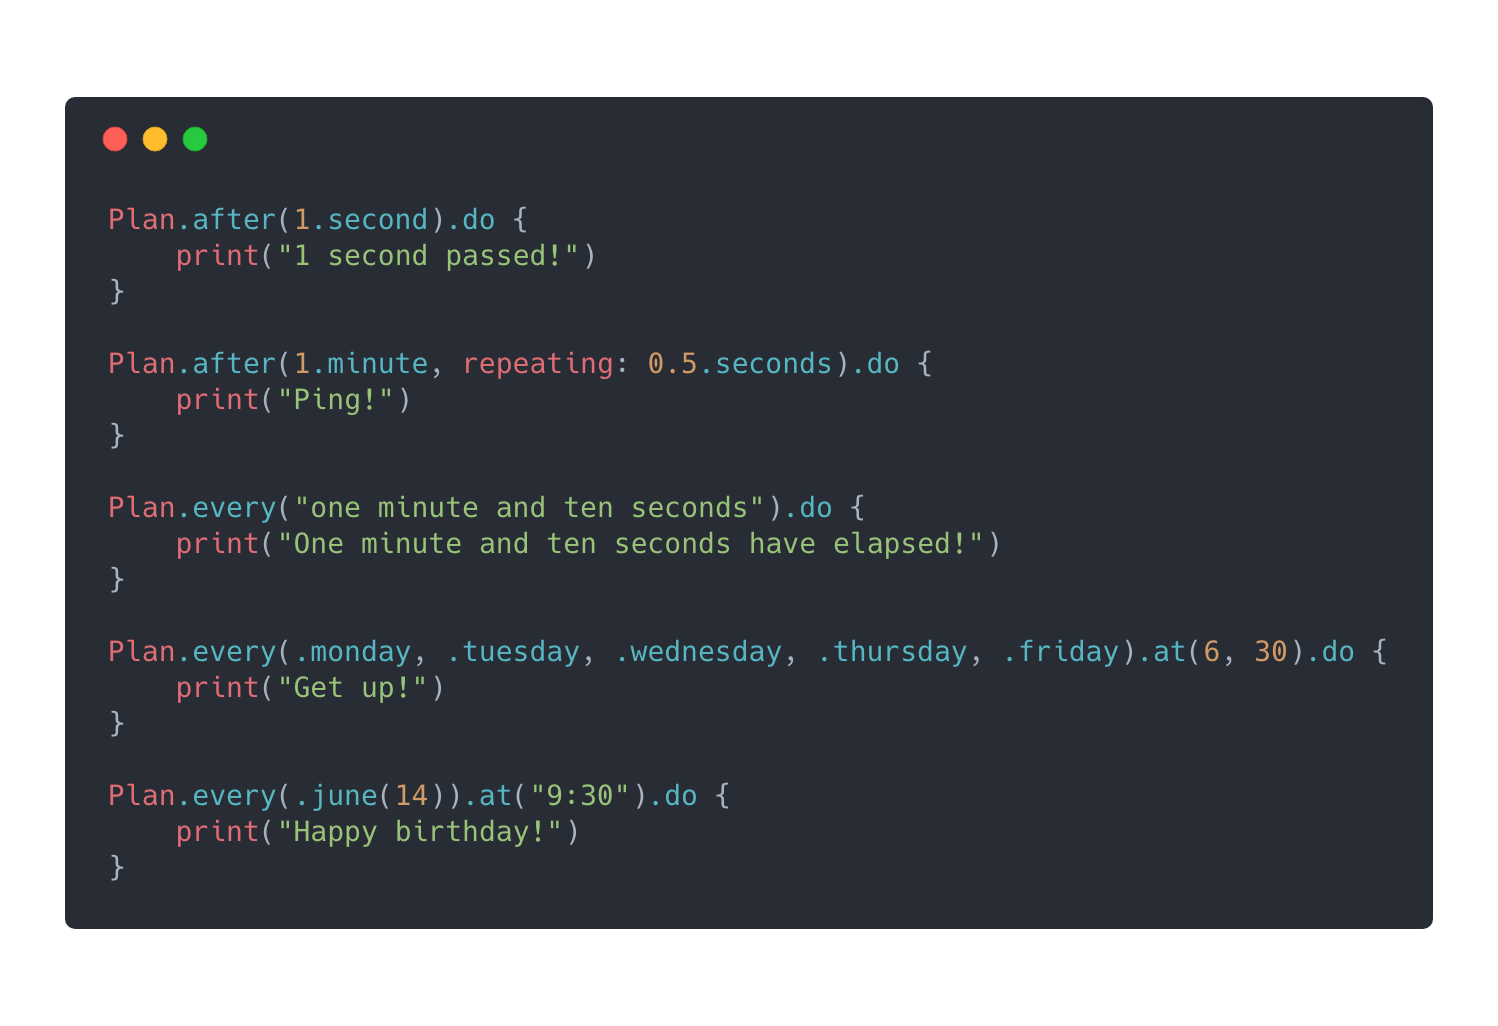
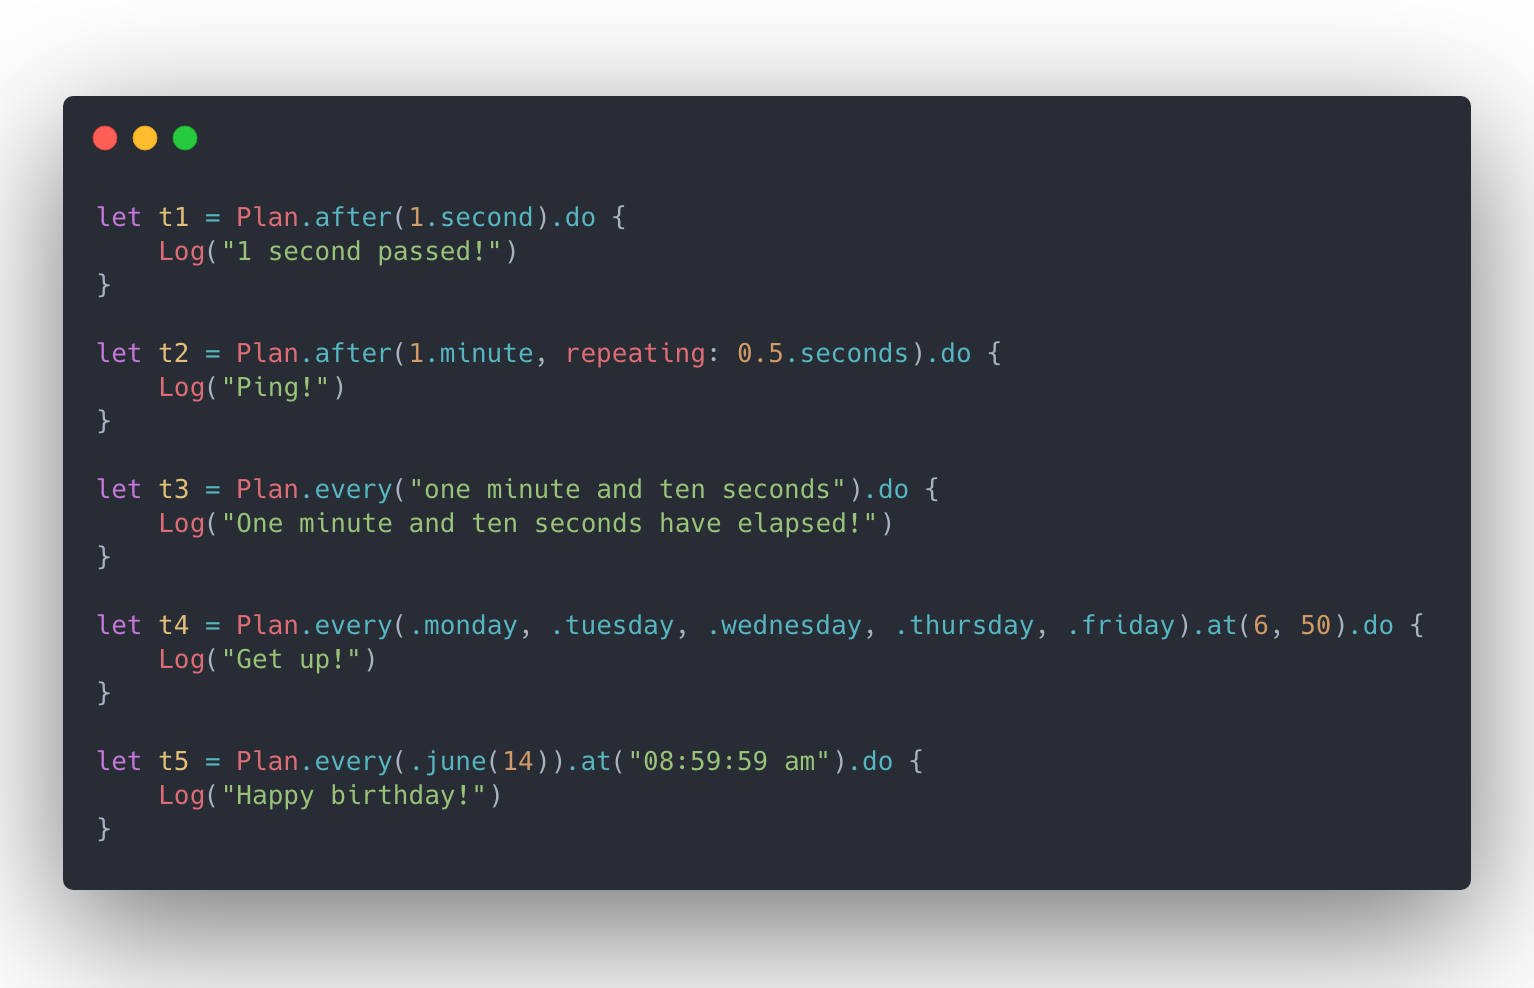
Update README.md

Changed region(s): [[0.0, 0.0607, 1.0, 1.0]]

diff --git a/Sources/Schedule/Task.swift b/Sources/Schedule/Task.swift
@@ -49,7 +49,7 @@ open class Task {
     open internal(set) weak var taskCenter: TaskCenter?
 
     /// The mutex used to guard task center operations.
-    let taskCenterMutex = NSLock()
+    let taskCenterMutex = NSRecursiveLock()
 
 
     /// Initializes a normal task with specified plan and dispatch queue.

diff --git a/README.md b/README.md
@@ -14,7 +14,7 @@
 Schedule is a lightweight timed tasks scheduler for Swift. It allows you run timed tasks using an incredibly human-friendly syntax.
 
 <p align="center">
-<img src="https://raw.githubusercontent.com/jianstm/Schedule/master/assets/demo.png" width="700">
+<img src="assets/demo.png" width="700">
 </p>
 
 ## Features
@@ -59,7 +59,7 @@ Scheduling a task has never been so simple and intuitive, all you have to do is:
 let plan = Plan.after(3.seconds)
 
 // 2. do your task：
-plan.do {
+let task = plan.do {
     print("3 seconds passed!")
 }
 ```
@@ -71,11 +71,11 @@ plan.do {
 Schedule uses a self-defined type `Interval` to configure timed tasks, so you don't have to worry about extensions of built-in type polluting your namespace. The smooth constructors make the configuration like a comfortable conversation:
 
 ```swift
-Plan.every(1.second).do { }
+let t1 = Plan.every(1.second).do { }
 
-Plan.after(1.hour, repeating: 1.minute).do { }
+let t2 = Plan.after(1.hour, repeating: 1.minute).do { }
 
-Plan.of(1.second, 2.minutes, 3.hours).do { }
+let t3 = Plan.of(1.second, 2.minutes, 3.hours).do { }
 ```
 
 #### Date-based Schedule
@@ -83,15 +83,15 @@ Plan.of(1.second, 2.minutes, 3.hours).do { }
 Configuring date-based timing tasks is the same, Schedule defines all the commonly used date time types, trying to make your writing experience intuitive and smooth::
 
 ```swift
-Plan.at(when).do { }
+let t1 = Plan.at(when).do { }
 
-Plan.every(.monday, .tuesday).at("9:00:00").do { }
+let t2 = Plan.every(.monday, .tuesday).at("9:00:00").do { }
 
-Plan.every(.september(30)).at(10, 30).do { }
+let t3 = Plan.every(.september(30)).at(10, 30).do { }
 
-Plan.every("one month and ten days").do { }
+let t4 = Plan.every("one month and ten days").do { }
 
-Plan.of(date0, date1, date2).do { }
+let t5 = Plan.of(date0, date1, date2).do { }
 ```
 
 #### Natural Language Parse
@@ -99,15 +99,14 @@ Plan.of(date0, date1, date2).do { }
 In addition, Schedule also supports basic natural language parsing, which greatly improves the readability of your code: 
 
 ```swift
-Plan.every("one hour and ten minutes").do { }
+let t1 = Plan.every("one hour and ten minutes").do { }
 
-Plan.every("1 hour, 5 minutes and 10 seconds").do { }
+let t2 = Plan.every("1 hour, 5 minutes and 10 seconds").do { }
 
-Plan.every(.friday).at("9:00 pm").do { }
+let t3 = Plan.every(.firday).at("9:00 pm").do { }
 
-// Extensions
 Period.registerQuantifier("many", for: 100 * 1000)
-Plan.every("many days").do { }
+let t4 = Plan.every("many days").do { }
 ```
 
 #### Mixing Rules Schedule
@@ -119,7 +118,7 @@ Schedule provides several collection operators, this means you can use them to c
 let p0 = Plan.at(birthdate)
 let p1 = Plan.every(1.year)
 let birthday = p0.concat.p1
-birthday.do { 
+let t1 = birthday.do { 
     print("Happy birthday")
 }
 
@@ -127,7 +126,7 @@ birthday.do {
 let p3 = Plan.every(.january(1)).at("8:00")
 let p4 = Plan.every(.october(1)).at("9:00 AM")
 let holiday = p3.merge(p4)
-holiday.do {
+let t2 = holiday.do {
     print("Happy holiday")
 }
 
@@ -160,7 +159,7 @@ The task will be executed on the current thread by default, and its implementati
 By default, Task will be added to `.common` mode, you can specify another mode when creating a task:
 
 ```swift
-Plan.every(1.second).do(mode: .default) {
+let task = Plan.every(1.second).do(mode: .default) {
     print("on default mode...")
 }
 ```
@@ -177,7 +176,7 @@ Plan.every(1.second).do(queue: .global()) {
 
 ### Management
 
-In schedule, every newly created task is automatically held by an internal global variable and will not be released until you cancel it actively. So you don't have to add variables to your controller and write nonsense like `weak var timer: Timer`, `self.timer = timer`:
+You can `suspend`, `resume`, `cancel` a task.
 
 ```swift
 let task = Plan.every(1.minute).do { }
@@ -213,22 +212,26 @@ let key = dailyTask.addAction {
 dailyTask.removeAction(byKey: key)
 ```
 
-#### Tag
+#### TaskCenter & Tag
 
-You can organize tasks with tags, and use queue to specify to where the task should be dispatched:
+Tasks are automatically added to `TaskCenter.default` when they are created. You can organize tasks using tags and task center.
 
 ```swift
-let s = Plan.every(1.day)
-let task0 = s.do(queue: myTaskQueue) { }
-let task1 = s.do(queue: myTaskQueue) { }
+let plan = Plan.every(1.day)
+let task0 = plan.do(queue: myTaskQueue) { }
+let task1 = plan.do(queue: myTaskQueue) { }
 
-task0.addTag("database")
-task1.addTags("database", "log")
-task1.removeTag("log")
+TaskCenter.default.addTags(["database", "log"], to: task1)
+TaskCenter.default.removeTag("log", from: task1)
 
-Task.suspend(byTag: "log")
-Task.resume(byTag: "log")
-Task.cancel(byTag: "log")
+TaskCenter.default.suspend(byTag: "log")
+TaskCenter.default.resume(byTag: "log")
+TaskCenter.default.cancel(byTag: "log")
+
+TaskCenter.default.clear()
+
+let myCenter = TaskCenter()
+myCenter.add(task0)	// will remove task0 from default center.
 ```
 
 #### Timeline
@@ -259,7 +262,7 @@ task.restOfLifetime == 11.hours
 
 ## Support
 
-- iOS 8.0+ / macOS 10.10+ / tvOS 9.0+ / watchOS 2.0+
+- iOS 10.0+ / macOS 10.14+ / tvOS 10.0+ / watchOS 3.0+
 - Linux(Tested on Ubuntu 16.04)
 
 ## Installation
@@ -291,7 +294,7 @@ dependencies: [
 
 ## Acknowledgement
 
-Inspired by Dan Bader's [schedule](https://github.com/dbader/schedule)! Syntax design is heavily influenced by Ruby!
+Inspired by Dan Bader's [schedule](https://github.com/dbader/schedule)!
 
 ## Contributing
 
